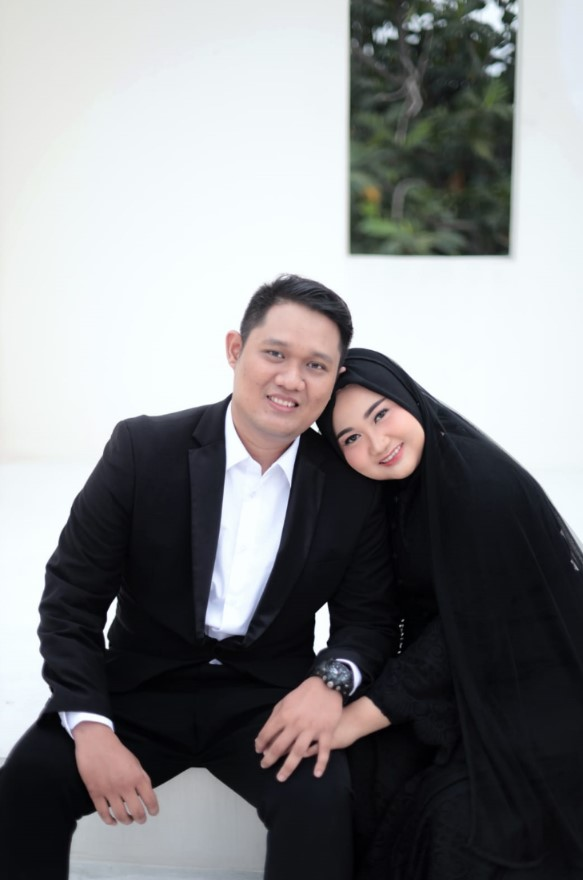
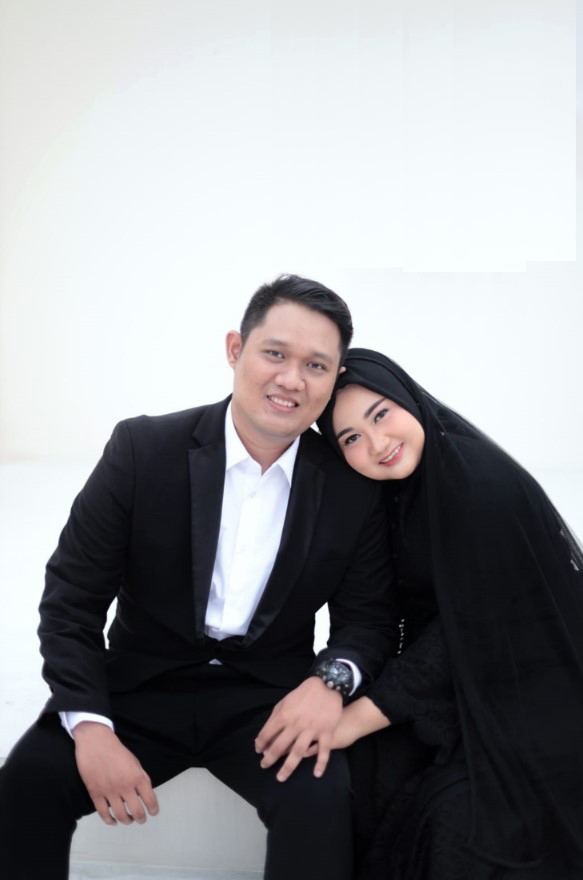
ganti background depan

Changed region(s): [[0.5866, 0.0, 0.9262, 0.3068]]

diff --git a/index.html b/index.html
@@ -30,14 +30,11 @@
     <link rel="stylesheet" href="https://fonts.googleapis.com/css2?family=Josefin+Sans&display=swap">
     <link rel="stylesheet" href="https://fonts.googleapis.com/css2?family=Sacramento&display=swap">
     <link rel="stylesheet" href="./css/app.css">
-    <link href="https://fonts.cdnfonts.com/css/miracles-autumn" rel="stylesheet">
+    <link href="https://fonts.cdnfonts.com/css/berkshire-swash" rel="stylesheet">
     <style>
-        @import url('https://fonts.cdnfonts.com/css/miracles-autumn');
-    </style>
-
-                
+        @import url('https://fonts.cdnfonts.com/css/berkshire-swash');
+        </style>
 </head>
-
 
 <body data-email="user@example.com" data-password="12345678" data-url="https://undanganapi-ecru.vercel.app">
     <nav class="navbar navbar-dark bg-dark navbar-expand fixed-bottom rounded-top-4 p-0" id="navbar-example2">
@@ -82,10 +79,10 @@
                 <h1 class="font-estetik my-4" style="font-size: 2.2rem;">Undangan Pernikahan</h1>
                 <div class="py-4">
                     <div class="cropper border border-3 border-light shadow mx-auto">
-                        <img src="assets/images/bg2.png" alt="bg" onclick="modalFoto(this)">
+                        <img src="assets/images/33.jpg" alt="bg" onclick="modalFoto(this)">
                     </div>
                 </div>
-                <h1 class="font-estetik my-4" style="font-size: 3rem;">Syhab & Dian</h1>
+                <h1 class="font-estetik my-4" style="font-size: 3rem;">Syhab W.S & Laelatul Fitria Mahardian</h1>
                 <h4>Kamis, 2 November 2023</h4>
                 <a class="btn btn-outline-light btn-sm shadow rounded-pill px-3 my-2" target="_blank" href="https://calendar.google.com/calendar/render?action=TEMPLATE&text=The%20Wedding%20of%20Syhab W.S%20and%20Laelatul Fitria Mahardian&details=The%20Wedding%20of%20Syhab W.S%20and%20Laelatul Fitria Mahardian%20%7C%2015%20Maret%202023%20%7C%20RT%2010%20RW%2002,%20Desa%20Pajerukan,%20Kec.%20Kalibagor,%20Kab.%20Banyumas,%20Jawa%20Tengah%2053191%20%7C%2010.00%20-%2011.00%20WIB&dates=20230315T100000/20230315T110000&location=https://goo.gl/maps/ALZR6FJZU3kxVwN86">
                     <i class="fa-solid fa-calendar-check me-2"></i>Save The Date
@@ -197,7 +194,7 @@
                     </div>
 
                     <div class="py-2" data-aos="fade-up" data-aos-duration="1500">
-                        <a href="https://goo.gl/maps/ALZR6FJZU3kxVwN86" target="_blank" class="btn btn-outline-light btn-sm rounded-pill shadow-sm mb-2 px-3">
+                        <a href="https://maps.app.goo.gl/mT82tw2g3VKZcgew6" target="_blank" class="btn btn-outline-light btn-sm rounded-pill shadow-sm mb-2 px-3">
                             <i class="fa-solid fa-map-location-dot me-2"></i>Lihat Google Maps
                         </a>
                         <p class="mb-0 mt-1 mx-1 pb-4" style="font-size: 0.9rem;">
@@ -423,9 +420,9 @@
         </div>
     </div>
 
-    <div class="modal fade" id="modalFoto"  tabindex="-1" aria-labelledby="modalFotoLabel" aria-hidden="true">
+    <div class="modal fade" id="modalFoto" tabindex="-1" aria-labelledby="modalFotoLabel" aria-hidden="true">
         <div class="modal-dialog modal-dialog-centered modal-xl">
-            <div class="modal-content d-block">
+            <div class="modal-content">
                 <div class="modal-body">
                     <div class="d-flex justify-content-center align-items-center" style="height: 100%;">
                         <img src="" class="w-100" alt="foto" id="showModalFoto">
@@ -440,18 +437,14 @@
 
     <div class="modal" id="exampleModal" tabindex="-1" aria-hidden="true">
         <div class="modal-dialog modal-dialog-centered modal-fullscreen m-0">
-            <div class="overlayy"></div>
-            <div class="modal-content m-0 p-0 center-block" >
-               
+            <div class="modal-content bg-image m-0 p-0">
                 <div class="d-flex justify-content-center align-items-center" style="height: 100vh !important;">
-                    
                     <div class="text-center">
-                        
-                        <h1 class="font-estetik1 mb-4" style="font-size: 2.2rem;">The Wedding Of</h1>
+                        <h1 class="font-estetikweddof mb-4" style="font-size: 2.2rem;">The Wedding Of</h1>
                         <!-- <div class="cropper border border-3 border-light shadow mb-4 mx-auto">
                             <img src="assets/images/2.jpg" alt="bg">
                         </div> -->
-                        <h1 class="font-estetik2 my-4" style="font-size: 3.5rem;">Syhab & Dian</h1>
+                        <h1 class="font-estetiknama my-4 test" style="font-size: 2.5rem;">Syhab W.S & Laelatul Fitria Mahardian</h1>
                         <div id="namatamu"></div>
                         <button type="button" class="btn btn-light shadow rounded-4 mt-4" data-bs-toggle="modal" data-bs-target="#exampleModal" onclick="buka()">
                             <i class="fa-solid fa-envelope-open me-2"></i>Buka Undangan

diff --git a/css/app.css b/css/app.css
@@ -3,7 +3,8 @@ html {
 }
 
 body {
-    font-family: 'Josefin Sans', sans-serif;
+    /* font-family: 'Josefin Sans', sans-serif; */
+    
     padding: 0 !important;
     overflow-y: scroll;
     -ms-overflow-style: none;
@@ -15,19 +16,20 @@ body::-webkit-scrollbar {
 }
 
 .font-estetik {
-    /* font-family: 'Miracles Autumn', cursive !important; */
-    font-family: 'Miracles Autumn', sans-serif;
+    /* font-family: 'Sacramento', cursive !important; */
+    font-family: 'Berkshire Swash', sans-serif;   
     color: #ffffff !important;
 }
-.font-estetik1 {
-    /* font-family: 'Miracles Autumn', cursive !important; */
-    font-family: 'Miracles Autumn', sans-serif;
+.font-estetikweddof {
+    font-family: 'Berkshire Swash', sans-serif;                                                
     color: #000000 !important;
+                                                
 }
-.font-estetik2 {
-    /* font-family: 'Miracles Autumn', cursive !important; */
-    font-family: 'Miracles Autumn', sans-serif;
+.font-estetiknama {
+    font-family: 'Berkshire Swash', sans-serif;                                                
     color: #000000 !important;
+    margin-bottom: 26.5rem;
+  
     
 }
 .cropper {
@@ -36,10 +38,9 @@ body::-webkit-scrollbar {
     position: relative;
     overflow: hidden;
     border-radius: 50%;
-    margin-top: -5rem;
-} 
+}
 
- .cropper>img {
+.cropper>img {
     display: inline;
     margin: 0 auto;
     height: auto;
@@ -103,84 +104,25 @@ body::-webkit-scrollbar {
     }
 }
 
-/* .modal-content {
-    position: center-block;
+/* add new css */
+
+.modal-content {
+    position: relative;
     display: flex;
     flex-direction: column;
     width: 100%;
+    height: 100vh;
     color: var(--bs-modal-color);
     pointer-events: auto;
-    background-color: transparent;    
-    background-image: url(http://127.0.0.1:3000/undangan/assets/images/2.jpg);
+    background-color:#1d161600;
     background-clip: padding-box;
+    background: url("http://127.0.0.1:3000/undangan/assets/images/2.jpg");
     border: var(--bs-modal-border-width) solid var(--bs-modal-border-color);
     border-radius: var(--bs-modal-border-radius);
     outline: 0;
-} */
-.modal-content {
-    position: fixed;
-    display: inline;
-    flex-direction: column;
-    width: 100%;
-    color: var(--bs-modal-color);
-    pointer-events: auto;
-    background-color:transparent;
-    background-clip: padding-box;
-    background-position: center;
-    background-size: cover;    
-    background-image: url(http://127.0.0.1:3000/undangan/assets/images/2.jpg);
-    border: var(--bs-modal-border-width) solid var(--bs-modal-border-color);
-    border-radius: var(--bs-modal-border-radius);
-    outline: 0;
+    background-repeat: no-repeat;
+   background-size: cover;
 }
-.modal{
-    --bs-modal-zindex: 1055;
-    --bs-modal-width: 500px;
-    --bs-modal-padding: 1rem;
-    --bs-modal-margin: 0.5rem;
-    --bs-modal-color: ;
-    --bs-modal-bg: #0b0d0f;
-    --bs-modal-border-color: var(--bs-border-color-translucent);
-    --bs-modal-border-width: var(--bs-border-width);
-    --bs-modal-border-radius: var(--bs-border-radius-lg);
-    --bs-modal-box-shadow: 0 0.125rem 0.25rem rgba(0, 0, 0, 0.075);
-    --bs-modal-inner-border-radius: calc(var(--bs-border-radius-lg) - (var(--bs-border-width)));
-    --bs-modal-header-padding-x: 1rem;
-    --bs-modal-header-padding-y: 1rem;
-    --bs-modal-header-padding: 1rem 1rem;
-    --bs-modal-header-border-color: var(--bs-border-color);
-    --bs-modal-header-border-width: var(--bs-border-width);
-    --bs-modal-title-line-height: 1.5;
-    --bs-modal-footer-gap: 0.5rem;
-    --bs-modal-footer-bg: ;
-    --bs-modal-footer-border-color: var(--bs-border-color);
-    --bs-modal-footer-border-width: var(--bs-border-width);
-    position: fixed;
-    top: 0;
-    left: 0;
-    z-index: var(--bs-modal-zindex);
-    display: none;
-    width: 100%;
-    height: 100%;
-    overflow-x: hidden;
-    overflow-y: auto;
-    outline: 0;
-}
-
-.overlayy {
-    background-color: #fff8f8ac;
-    position: relative;
-    width: 100%;
-    height: 100%;
-    z-index: 2001;
-    top: 0;
-    opacity: .2;
-    left: 0;
-}
-.btn-light {
-    margin-bottom: 10rem;
-}
-.my-4 {
-    margin-top: 0.5rem!important;
-    margin-bottom: 9.5rem!important;
+.test{
+    margin-bottom: 26.5rem;
 }
